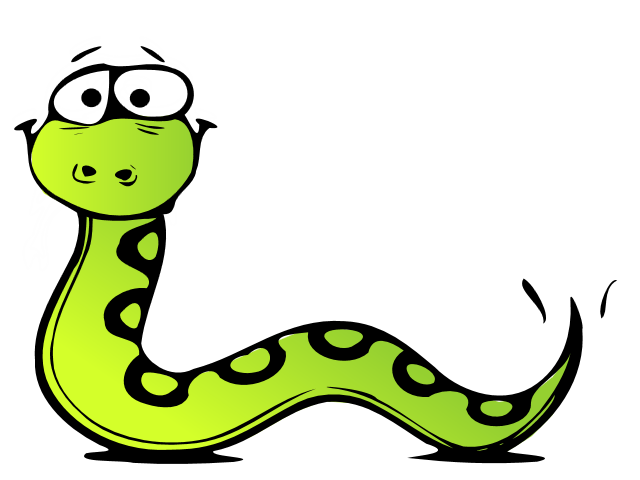
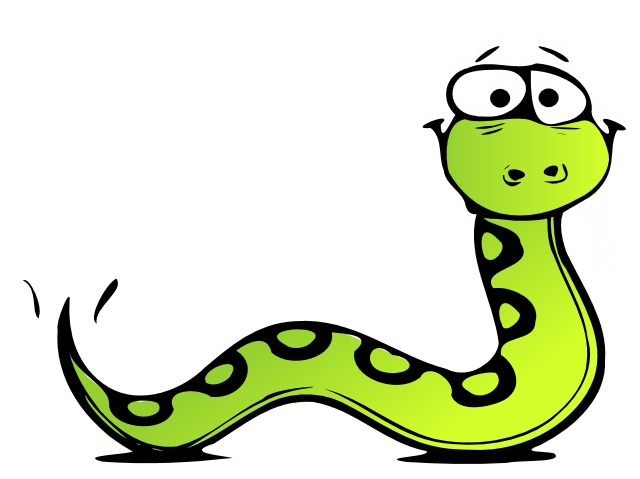
Feat: added background and js adjustments

diff --git a/p2-js-game/css/styles.css b/p2-js-game/css/styles.css
@@ -5,10 +5,10 @@
     margin: 0;
     padding: 0;
     box-sizing: border-box;
-    outline: 1px solid black;
+    /* outline: 1px solid black; */
 }
 body {
-    background-color: #EDEDED;
+    background-color: #7D9F02;
 }
 .body-bg {
     margin: 0;
@@ -16,24 +16,25 @@ body {
     position: absolute;
     height: 100%;
     z-index: -2;
+    background-size:contain;
 }
 h1 {
     font-family: 'Mystery Quest', cursive;
     font-size: 5rem;
     text-align: center;
-    /* margin-top: 30px; */
 }
 main {
     margin-top: 20px;
     font-family: 'Enhanced LED Board-7', sans-serif;
     width: 100%;
     font-weight: bold;
+    
 }
 .play-container, 
 .game-lost {
     position: absolute;
     width: 60%;
-    height: 79%; 
+    height: 78%; 
     border: 1px solid green;
     text-align: center;
     display: flex;
@@ -41,9 +42,7 @@ main {
     align-items: center;
 }
 .play-container {
-    background-color: rgb(208, 240, 191 , .8);
-    
-    
+    background-color: rgba(91, 231, 16);
 }
 .start-game,
 .game-lost h3 {
@@ -89,9 +88,13 @@ main, h1 {
 }
 .snake-bg {
     position: absolute;
+    left: 53%;
+    top: 30%;
+    z-index: -1;
 }
 canvas {
     width: 100%;
+    border: 6px outset grey;
 }
 .restart-container {
     display: flex;

diff --git a/p2-js-game/js/script.js b/p2-js-game/js/script.js
@@ -66,8 +66,6 @@ gameLostDiv.className = 'game-lost';
 // let gameLostTitle = document.createElement('')
 
 
-
-
 createFood();
 document.addEventListener('keyup', changePath);
 
@@ -97,36 +95,7 @@ restartBtn.addEventListener('click', () => {
 
 
 
-
-
-// createFood();
-// document.addEventListener('keyup', changePath);
-
-// //set easy as default difficulty
-// easyBtn.addEventListener('click', () => {
-//     // easy;
-//     // clearInterval(moderate);
-//     // clearInterval(hard);
-//     // setInterval(createMap(), 1000/3);
-//     // console.log('easy mode');
-    
-// });
-
-
-// //set difficulty to moderate
-// moderateBtn.addEventListener('click', () => {
-//     moderate = setInterval(createMap, 1000/5);
-// });
-// clearInterval(moderate);
-// //set difficulty to hard
-// hardBtn.addEventListener('click', () => {
-//     // clearInterval(easy);
-//     // clearInterval(moderate);
-//     hard = setInterval(createMap(), 1000/7);
-//     // console.log('hard mode');
-    
-// });
-
+//------------- This is the function section ------------//
 function createMap() {
     
     if(gameLost) {

diff --git a/p2-js-game/index.html b/p2-js-game/index.html
@@ -9,7 +9,7 @@
     <script src="./js/script.js" defer></script>
 </head>
 <body>
-    <img class="body-bg" src="./assets/images/body_bg.jpg" alt="forest page background">
+    <!-- <img class="body-bg" src="./assets/images/body_bg.jpg" alt="forest page background"> -->
     <header>
         <h1>Slytheryn</h1>
     </header>
@@ -43,6 +43,9 @@
 
         <!-- map canvas -->
         <canvas id='map'></canvas>
+
+        <!-- snake background design -->
+        <img  class="snake-bg" src="./assets/images/snake_bg.png" alt="snake background">
 
         <!-- restart button -->
         <div class="restart-container">
